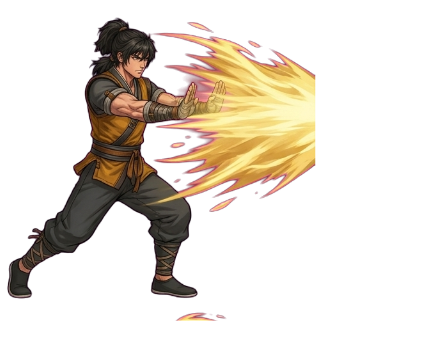
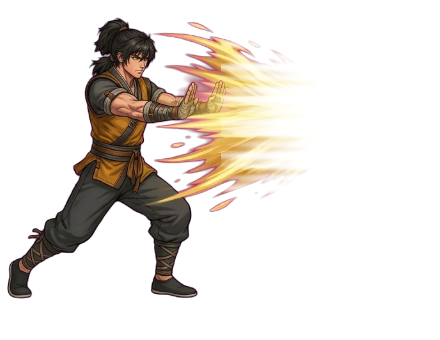
현운 백보신권 시전: 장풍 끝이 잘려 보이던 것 서서히 흩어지게 + 여래신장 손바닥 가장자리 부드럽게

Changed region(s): [[0.5023, 0.1176, 0.7386, 0.5882], [0.4136, 0.9118, 0.5318, 0.9412]]

diff --git a/js/08_fx.js b/js/08_fx.js
@@ -248,8 +248,30 @@ function createShockwave(x, y, radius, color) {
 
 // 검은 배경 빛 이펙트 그림을 더하기 합성으로 그림 (검은색은 안 보이고 빛만 남음)
 // sy: 세로 눌림(바닥에 깔린 느낌), rot: 회전
+// 가장자리를 둥글게 서서히 지운 그림 (11-13 사용자: 여래신장 손바닥 "끝이 잘려 보임" — 빛줄기가 네모 끝에서 직선으로 끊기고, jpg 검정이 완전 0 이 아니라 네모 테두리가 비침)
+const FX_SOFT = { fx_buddha_palm: 0.36 }; // 그림 이름: 이 반지름(그림 크기 비율)부터 바깥으로 0 이 되게
+const fxSoftCache = {};
+function softFxImage(key, img) {
+  if (fxSoftCache[key]) return fxSoftCache[key];
+  const w = img.width, h = img.height, c = document.createElement('canvas');
+  c.width = w; c.height = h;
+  const x = c.getContext('2d');
+  x.drawImage(img, 0, 0);
+  try {
+    const id = x.getImageData(0, 0, w, h), d = id.data, r0 = FX_SOFT[key], r1 = 0.5;
+    for (let yy = 0; yy < h; yy++) for (let xx = 0; xx < w; xx++) {
+      const r = Math.hypot(xx / w - 0.5, yy / h - 0.5);
+      const k = r <= r0 ? 1 : r >= r1 ? 0 : Math.pow(1 - (r - r0) / (r1 - r0), 1.6);
+      const i = (yy * w + xx) * 4;
+      for (let q = 0; q < 3; q++) d[i + q] = Math.max(0, (d[i + q] - 6) * 255 / 249) * k; // 검정 바닥 잡티(jpg)도 0 으로
+    }
+    x.putImageData(id, 0, 0);
+  } catch (e) { return img; } // 파일로 열었을 때(file://) 등 읽기 막히면 그대로
+  return (fxSoftCache[key] = c);
+}
 function drawFxImage(key, x, y, size, alpha = 1, rot = 0, sy = 1, tint = null) {
-  const img = tint ? tinted(SPRITES[key], tint) : SPRITES[key];
+  const base = (FX_SOFT[key] && SPRITES[key] && SPRITES[key].width) ? softFxImage(key, SPRITES[key]) : SPRITES[key];
+  const img = tint ? tinted(base, tint) : base;
   if (!img || !img.width) return false;
   ctx.save();
   ctx.globalCompositeOperation = 'lighter';

diff --git a/tools/fade_hy_cast1.js b/tools/fade_hy_cast1.js
@@ -1,0 +1,22 @@
+(async () => {
+  // 현운 시전 1번(쌍장 장풍): 원본에서 장풍이 그림 끝에 잘려 세로 직선으로 끊김 → 오른쪽 끝을 서서히 흩어지게, 아래쪽 떨어진 조각 지우기
+  const im = new Image(); im.src = '/assets/hero/hyunwoon_cast_1.png?t=' + Date.now(); await im.decode();
+  const w = im.width, h = im.height, c = document.createElement('canvas'); c.width = w; c.height = h;
+  const x = c.getContext('2d'); x.drawImage(im, 0, 0);
+  const id = x.getImageData(0, 0, w, h), d = id.data;
+  let maxx = 0; for (let y = 0; y < h; y++) for (let X = 0; X < w; X++) if (d[(y * w + X) * 4 + 3] > 20 && X > maxx) maxx = X;
+  const fadeLen = 95, x0 = maxx - fadeLen;
+  for (let y = 0; y < h; y++) for (let X = 0; X < w; X++) {
+    const i = (y * w + X) * 4;
+    if (y >= 302 && X >= 165) { d[i + 3] = 0; continue; } // 아래 떨어진 조각
+    if (X > x0) {
+      const t = (X - x0) / fadeLen;                       // 0 → 1
+      // 끝을 들쭉날쭉하게: 줄마다 사라지는 자리가 조금씩 다름 (불꽃처럼)
+      const jag = 0.18 * Math.sin(y * 0.21) + 0.12 * Math.sin(y * 0.57 + 1.3);
+      const k = Math.max(0, Math.min(1, 1 - (t + jag) * 1.05));
+      d[i + 3] = Math.round(d[i + 3] * k * k);
+    }
+  }
+  x.putImageData(id, 0, 0);
+  return JSON.stringify({ maxx, url: c.toDataURL('image/png') });
+})()

diff --git a/작업기록.md b/작업기록.md
@@ -320,3 +320,4 @@
 - 시험용 협객 개방 (11-13 사용자): 주소 뒤 ?test → 현운·당소연 바로 고를 수 있음(이 기기에 기억, ?test=0 으로 끔). 내 PC 시험 서버(127.0.0.1)는 늘 열림. 은자·저장은 그대로.
 - 검막 다시 그림 (11-13 사용자: "검도 아니고 애매", "회오리 느낌"): 진짜 검(칼날 등줄·금빛 코등이·감은 손잡이·빨간 술)이 칼끝을 도는 방향으로 두고 돌며 검기 꼬리를 남김. 발밑부터 머리 위로 넓어지는 바람 고리 4겹(drawCurtainWind). 협객 뒤쪽 절반은 바닥 층, 앞쪽 절반은 맨 위 층에 그려 몸을 감싸 도는 것처럼.
 - 현운 공격 3번째 장면 다시 자름 (11-13 사용자: "3번째 공격이 잘려 보임"): 원본(assets_new/hyunwoon_attack_gem.png 아래 왼쪽)의 금빛 장풍 소용돌이가 마젠타 바탕을 지울 때 가장자리가 같이 지워져 뜯기고 붉게 보였음 → 몸은 그대로, 빛·가장자리는 바탕색을 "풀어서" 반투명으로 살림(tools/recut_unmix_hy_attack2.js, 바탕은 정확한 255,0,255 가 아니라 귀퉁이에서 잼). 같은 문제는 빛나는 효과가 있는 다른 그림에도 쓸 수 있음.
+- 현운 시전 1번(백보신권 쌍장) 장풍 끝이 세로로 잘려 보임 (11-13 사용자): 원본 시트에서 장풍이 그림 오른쪽 끝에 잘려 있었음 → 끝 95px 를 들쭉날쭉하게 서서히 사라지게 + 발밑 떨어진 조각 지움(tools/fade_hy_cast1.js). 같이: 여래신장 금빛 손바닥 그림(fx_buddha_palm)도 가장자리를 둥글게 지움(08_fx.js FX_SOFT) — 크게 그릴 때 네모 끝 빛줄기가 직선으로 끊기던 것.
